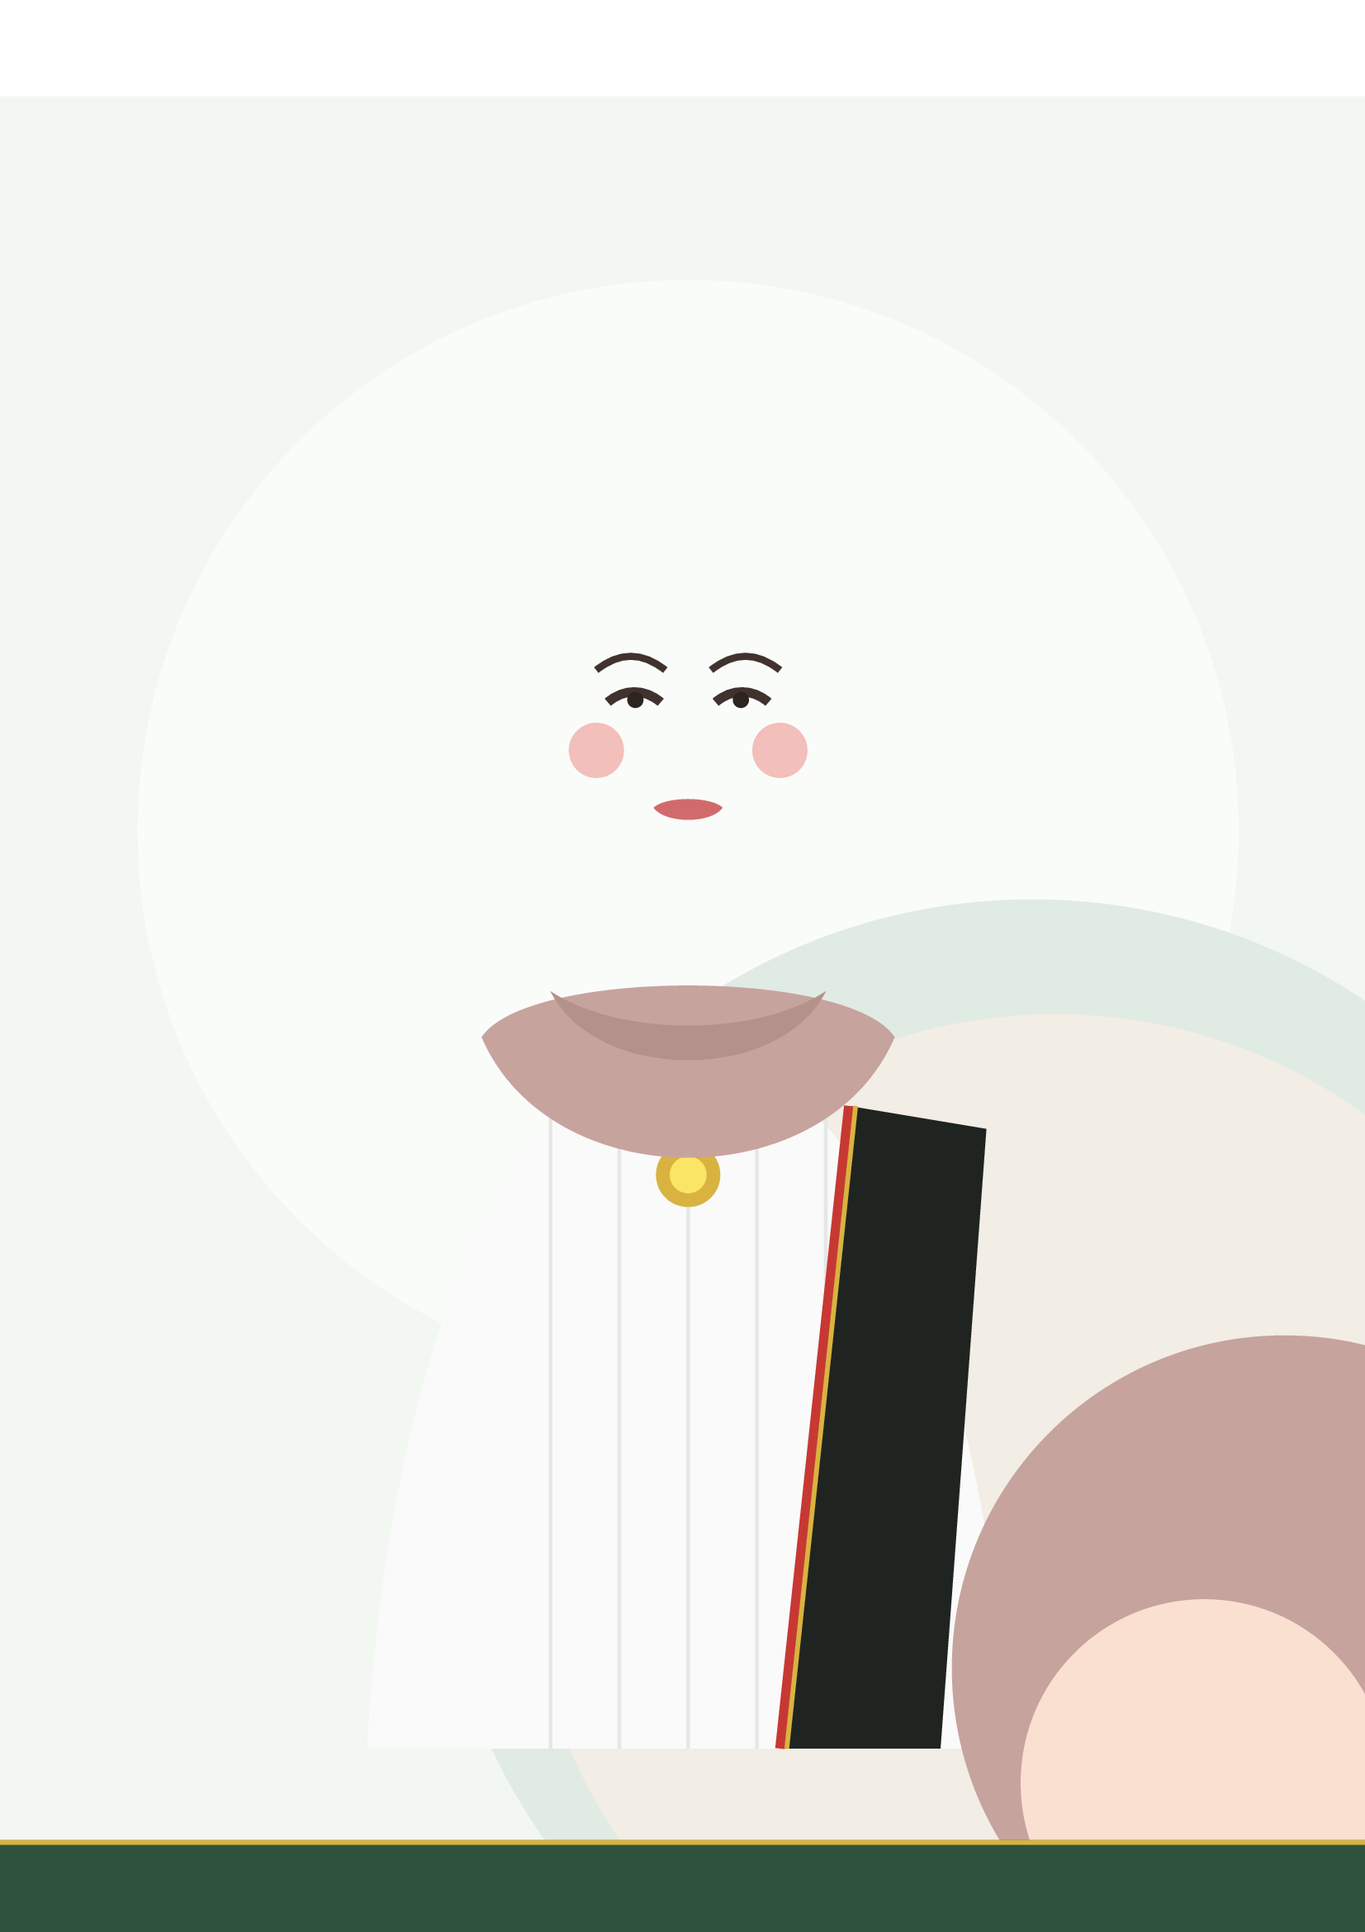
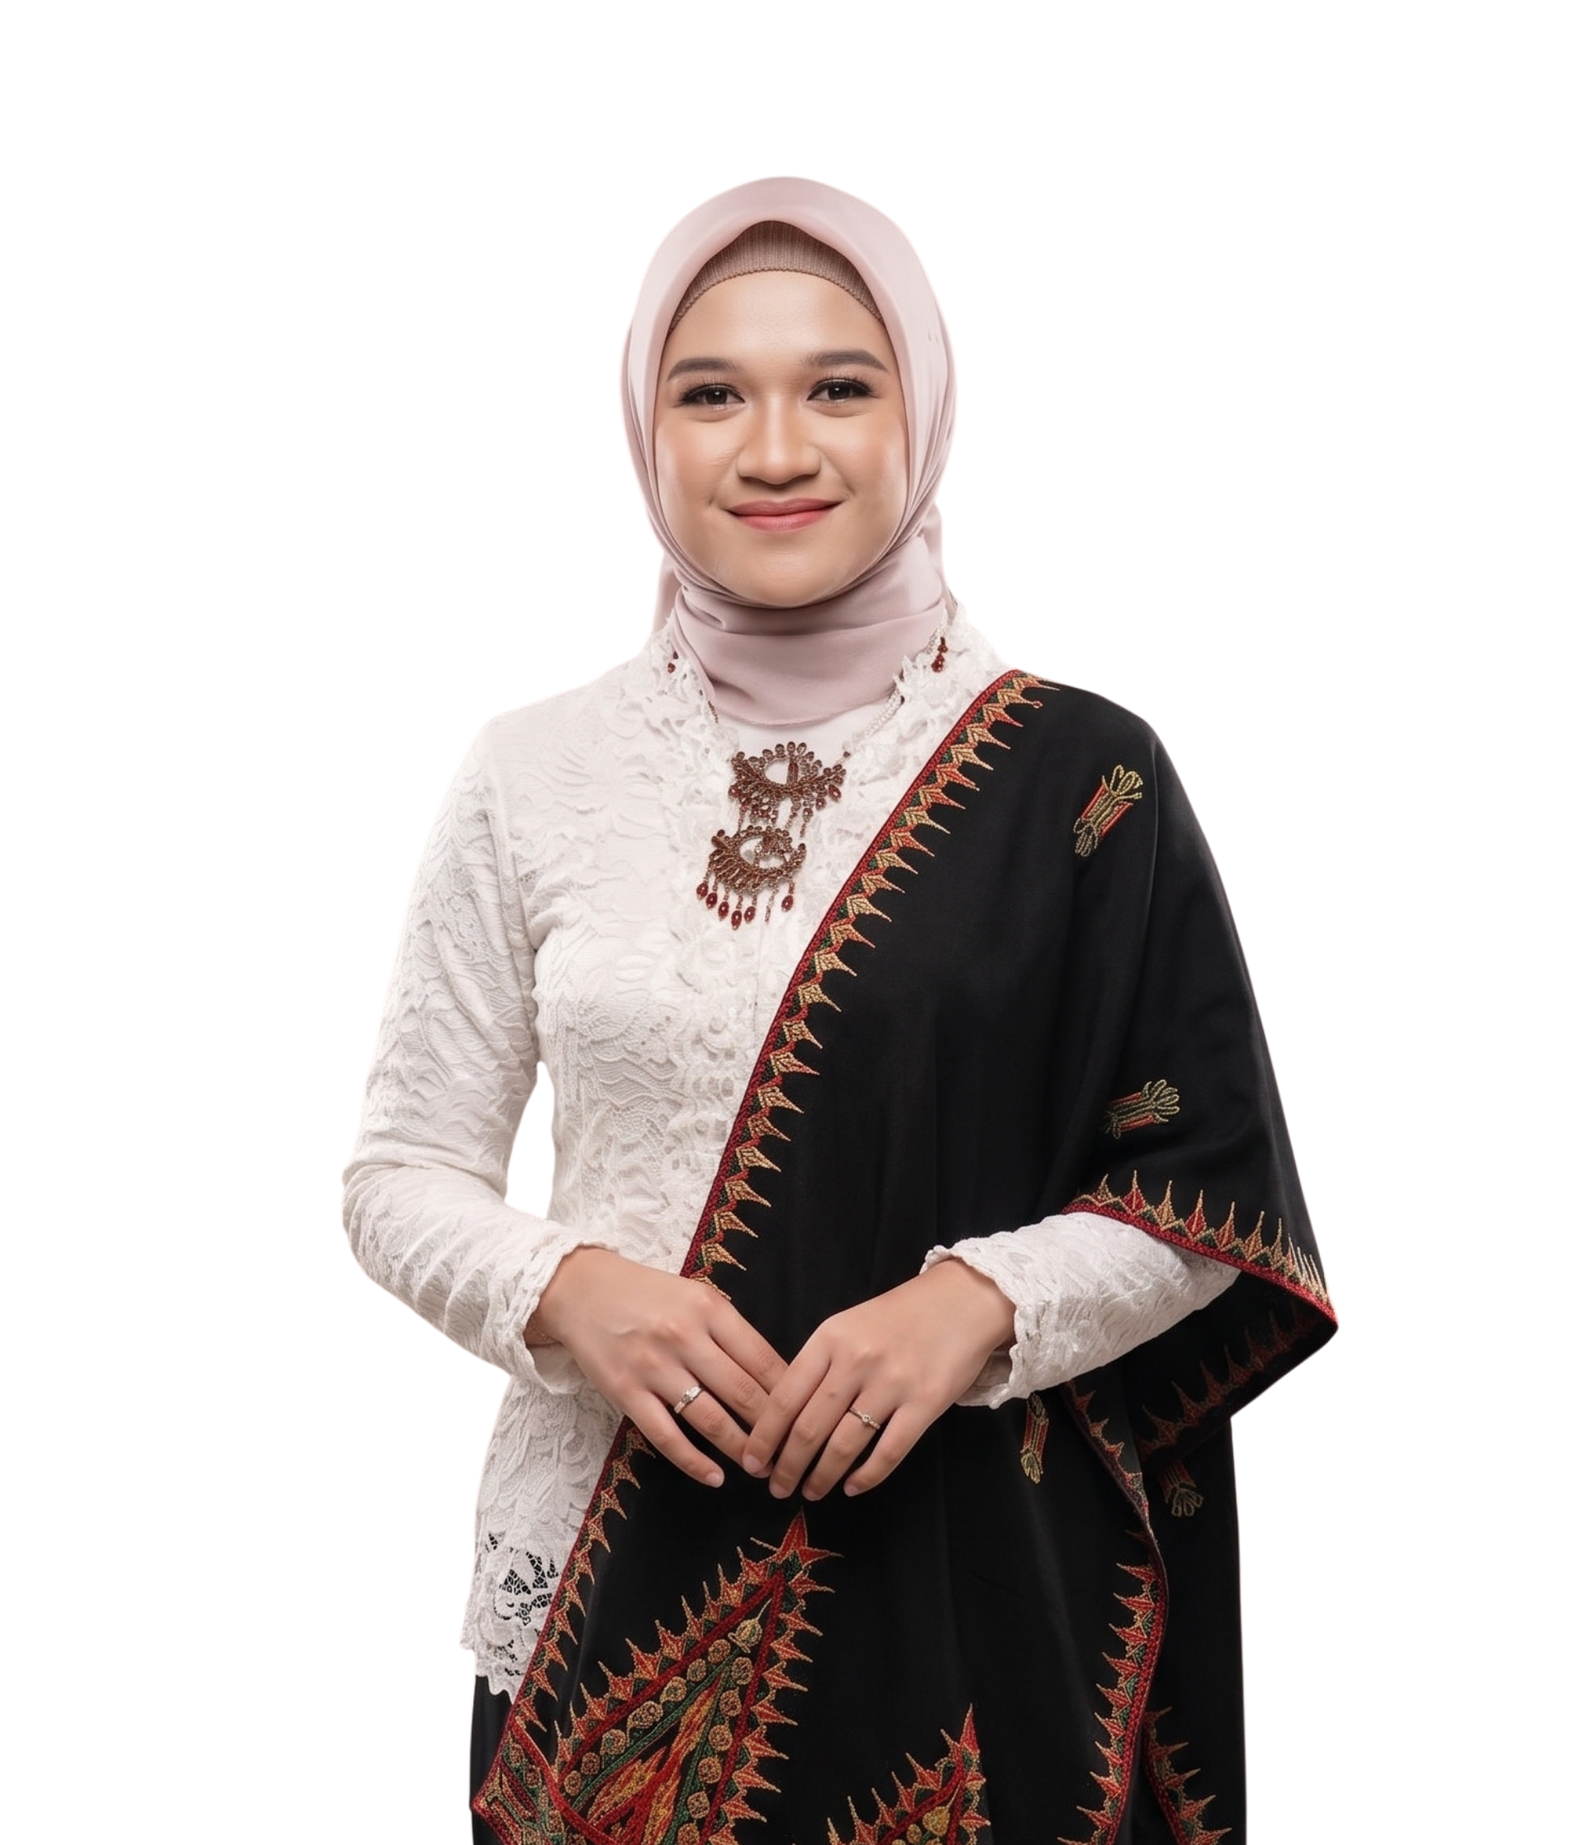
update v2

diff --git a/src/components/admin/AdminPhotoManager.tsx b/src/components/admin/AdminPhotoManager.tsx
@@ -3,7 +3,7 @@ import { useData } from '../../context/DataContext';
 import { PhotoItem } from '../../types';
 
 export const AdminPhotoManager: React.FC<{ showToast: (msg: string) => void }> = ({ showToast }) => {
-  const { photos, addPhoto, deletePhoto, refreshPhotos } = useData();
+  const { photos, addPhoto, deletePhoto, refreshPhotos, notaryProfile, updateNotaryProfile } = useData();
 
   // Server health state
   const [serverHealth, setServerHealth] = useState<{
@@ -20,6 +20,7 @@ export const AdminPhotoManager: React.FC<{ showToast: (msg: string) => void }> =
   const [description, setDescription] = useState('');
   const [isUploading, setIsUploading] = useState(false);
   const [uploadProgress, setUploadProgress] = useState('');
+  const [setAsNotaryProfile, setSetAsNotaryProfile] = useState(false);
 
   // Manual URL Form State
   const [manualUrl, setManualUrl] = useState('');
@@ -128,7 +129,12 @@ export const AdminPhotoManager: React.FC<{ showToast: (msg: string) => void }> =
           const result = await response.json();
           if (result.photo) {
             addPhoto(result.photo);
-            showToast('Foto berhasil diunggah ke Vercel Blob & tersimpan di database!');
+            if (setAsNotaryProfile || category === 'Profil Notaris') {
+              updateNotaryProfile({ photoUrl: result.photo.url });
+              showToast('Foto berhasil diunggah dan langsung aktif sebagai Foto Profil Notaris!');
+            } else {
+              showToast('Foto berhasil diunggah ke Vercel Blob & tersimpan di database!');
+            }
             resetForm();
             return;
           }
@@ -149,7 +155,12 @@ export const AdminPhotoManager: React.FC<{ showToast: (msg: string) => void }> =
             created_at: new Date().toISOString(),
           };
           addPhoto(newPhoto);
-          showToast('Foto berhasil disimpan ke galeri!');
+          if (setAsNotaryProfile || category === 'Profil Notaris') {
+            updateNotaryProfile({ photoUrl: base64Url });
+            showToast('Foto disimpan & langsung aktif sebagai Foto Profil Notaris!');
+          } else {
+            showToast('Foto berhasil disimpan ke galeri!');
+          }
           resetForm();
         };
         reader.readAsDataURL(selectedFile);
@@ -171,7 +182,12 @@ export const AdminPhotoManager: React.FC<{ showToast: (msg: string) => void }> =
           const result = await response.json();
           if (result.photo) {
             addPhoto(result.photo);
-            showToast('Foto berhasil ditambahkan ke database!');
+            if (setAsNotaryProfile || category === 'Profil Notaris') {
+              updateNotaryProfile({ photoUrl: result.photo.url });
+              showToast('Foto URL berhasil disimpan dan aktif sebagai Foto Profil Notaris!');
+            } else {
+              showToast('Foto berhasil ditambahkan ke database!');
+            }
             resetForm();
             return;
           }
@@ -443,9 +459,16 @@ export const AdminPhotoManager: React.FC<{ showToast: (msg: string) => void }> =
                   </label>
                   <select
                     value={category}
-                    onChange={(e) => setCategory(e.target.value)}
-                    className="w-full px-3.5 py-2.5 bg-slate-50 border border-slate-300 rounded-xl text-sm focus:outline-none focus:ring-2 focus:ring-emerald-500"
+                    onChange={(e) => {
+                      const newCat = e.target.value;
+                      setCategory(newCat);
+                      if (newCat === 'Profil Notaris') {
+                        setSetAsNotaryProfile(true);
+                      }
+                    }}
+                    className="w-full px-3.5 py-2.5 bg-slate-50 border border-slate-300 rounded-xl text-sm focus:outline-none focus:ring-2 focus:ring-emerald-500 font-medium"
                   >
+                    <option value="Profil Notaris">Profil Notaris (Foto Utama Notaris)</option>
                     <option value="Dokumentasi Kantor">Dokumentasi Kantor</option>
                     <option value="Kegiatan Notaris">Kegiatan Notaris</option>
                     <option value="Klien & Kerjasama">Klien & Kerjasama</option>
@@ -481,6 +504,26 @@ export const AdminPhotoManager: React.FC<{ showToast: (msg: string) => void }> =
                     className="w-full px-3.5 py-2.5 bg-slate-50 border border-slate-300 rounded-xl text-sm focus:outline-none focus:ring-2 focus:ring-emerald-500"
                   />
                 </div>
+              </div>
+
+              {/* Set as Notary Profile checkbox toggle */}
+              <div className="p-3.5 bg-emerald-50 rounded-2xl border border-emerald-200 flex items-center justify-between">
+                <div className="flex items-center gap-2.5">
+                  <input
+                    type="checkbox"
+                    id="setAsNotaryCheckbox"
+                    checked={setAsNotaryProfile || category === 'Profil Notaris'}
+                    onChange={(e) => setSetAsNotaryProfile(e.target.checked)}
+                    className="w-4 h-4 text-emerald-600 rounded-md focus:ring-emerald-500 cursor-pointer"
+                  />
+                  <label htmlFor="setAsNotaryCheckbox" className="text-xs font-bold text-emerald-950 cursor-pointer flex items-center gap-1.5">
+                    <i className="fa-solid fa-user-check text-emerald-600"></i>
+                    <span>Terapkan langsung sebagai Foto Profil Utama Notaris di Seluruh Website</span>
+                  </label>
+                </div>
+                <span className="text-[10px] text-emerald-700 font-semibold hidden sm:inline-block">
+                  (Hero, Profil, Navbar & Portret)
+                </span>
               </div>
 
               <div className="pt-2 flex flex-wrap items-center gap-3">
@@ -580,6 +623,13 @@ export const AdminPhotoManager: React.FC<{ showToast: (msg: string) => void }> =
                       className="w-full h-full object-cover group-hover:scale-105 transition-transform duration-300"
                       referrerPolicy="no-referrer"
                     />
+                    {notaryProfile.photoUrl === photo.url && (
+                      <div className="absolute top-2 left-2 z-10">
+                        <span className="px-2.5 py-0.5 rounded-full text-[10px] font-bold bg-amber-400 text-slate-950 shadow-sm flex items-center gap-1 border border-amber-300">
+                          <i className="fa-solid fa-star text-[9px] text-amber-900"></i> Profil Notaris Aktif
+                        </span>
+                      </div>
+                    )}
                     <div className="absolute top-2 right-2">
                       <span className="px-2.5 py-1 rounded-full text-[10px] font-bold bg-white/90 backdrop-blur-xs text-emerald-800 shadow-xs">
                         {photo.category}
@@ -604,6 +654,23 @@ export const AdminPhotoManager: React.FC<{ showToast: (msg: string) => void }> =
                 </div>
 
                 <div className="p-3 bg-white border-t border-slate-200/80 flex items-center justify-between gap-2">
+                  <button
+                    type="button"
+                    onClick={() => {
+                      updateNotaryProfile({ photoUrl: photo.url });
+                      showToast(`Foto "${photo.title}" sekarang aktif sebagai Foto Profil Notaris!`);
+                    }}
+                    className={`px-2.5 py-1.5 rounded-lg text-xs font-bold transition-all flex items-center gap-1 cursor-pointer ${
+                      notaryProfile.photoUrl === photo.url
+                        ? 'bg-amber-100 text-amber-900 border border-amber-300'
+                        : 'bg-slate-100 hover:bg-emerald-50 text-slate-700 hover:text-emerald-700'
+                    }`}
+                    title="Jadikan Foto Profil Utama Notaris"
+                  >
+                    <i className={`fa-solid ${notaryProfile.photoUrl === photo.url ? 'fa-circle-check text-emerald-600' : 'fa-user-tie'} text-[11px]`}></i>
+                    <span>{notaryProfile.photoUrl === photo.url ? 'Profil Aktif' : 'Set Profil'}</span>
+                  </button>
+
                   <button
                     type="button"
                     onClick={() => copyPhotoUrl(photo)}

diff --git a/src/components/NotaryPortrait.tsx b/src/components/NotaryPortrait.tsx
@@ -1,4 +1,4 @@
-import React, { useState } from 'react';
+import React, { useState, useEffect } from 'react';
 import { useData } from '../context/DataContext';
 
 interface NotaryPortraitProps {
@@ -18,17 +18,24 @@ export const NotaryPortrait: React.FC<NotaryPortraitProps> = ({
 }) => {
   const { notaryProfile } = useData();
 
-  // Fallback candidate list
+  // Prefer uploaded photoUrl from profile, with fallback chain
+  const photoTarget = notaryProfile.photoUrl || '/SYARIFAH_NURUL.png';
+
   const candidates = [
-    notaryProfile.photoUrl,
-    '/SYARIFAH NURUL.png',
+    photoTarget,
     '/SYARIFAH_NURUL.png',
+    '/SYARIFAH NURUL.png',
     '/syarifah_portrait.svg',
-    '/syarifah-nurul.png',
   ].filter(Boolean) as string[];
 
   const [currentIndex, setCurrentIndex] = useState<number>(0);
   const [hasError, setHasError] = useState(false);
+
+  // Whenever notaryProfile.photoUrl changes, immediately reset candidate index to 0
+  useEffect(() => {
+    setCurrentIndex(0);
+    setHasError(false);
+  }, [notaryProfile.photoUrl]);
 
   // Handle image load error by cycling through candidates
   const handleError = () => {
@@ -47,7 +54,7 @@ export const NotaryPortrait: React.FC<NotaryPortraitProps> = ({
     hero: 'w-64 h-80 sm:w-72 sm:h-96 md:w-80 md:h-[430px] rounded-3xl',
   };
 
-  const currentSrc = candidates[currentIndex] || '/syarifah_portrait.svg';
+  const currentSrc = candidates[currentIndex] || '/SYARIFAH_NURUL.png';
 
   return (
     <div className={`relative inline-block ${className} group`}>
@@ -57,9 +64,11 @@ export const NotaryPortrait: React.FC<NotaryPortraitProps> = ({
       >
         {!hasError ? (
           <img
+            key={currentSrc}
             src={currentSrc}
             alt={altText}
             onError={handleError}
+            referrerPolicy="no-referrer"
             className={`w-full h-full object-cover object-top transition-transform duration-500 hover:scale-105 ${imageClassName}`}
             loading="eager"
           />
@@ -84,4 +93,5 @@ export const NotaryPortrait: React.FC<NotaryPortraitProps> = ({
     </div>
   );
 };
+
 

diff --git a/src/context/DataContext.tsx b/src/context/DataContext.tsx
@@ -240,6 +240,10 @@ export const DataProvider: React.FC<{ children: ReactNode }> = ({ children }) =>
         if (parsed.degrees?.includes('C.L.A.')) {
           parsed.degrees = "S.H. (Universitas Sultan Ageng Tirtayasa) | M.Kn. (Universitas Indonesia)";
         }
+        // If stored photoUrl is empty or an old local placeholder and INITIAL_PROFILE has a cloud URL, prefer INITIAL_PROFILE
+        if (INITIAL_PROFILE.photoUrl && (!parsed.photoUrl || parsed.photoUrl === '/SYARIFAH NURUL.png' || parsed.photoUrl === '/SYARIFAH_NURUL.png')) {
+          parsed.photoUrl = INITIAL_PROFILE.photoUrl;
+        }
         return { ...INITIAL_PROFILE, ...parsed };
       } catch (e) { console.error(e); }
     }
@@ -356,10 +360,22 @@ export const DataProvider: React.FC<{ children: ReactNode }> = ({ children }) =>
       .then((data) => {
         if (data) {
           if (data.notaryProfile) {
-            setNotaryProfile((prev) => ({ ...prev, ...data.notaryProfile }));
+            setNotaryProfile((prev) => {
+              const updated = { ...prev, ...data.notaryProfile };
+              try {
+                localStorage.setItem(STORAGE_KEYS.PROFILE, JSON.stringify(updated));
+              } catch (e) {}
+              return updated;
+            });
           }
           if (data.websiteSettings) {
-            setWebsiteSettings((prev) => ({ ...prev, ...data.websiteSettings }));
+            setWebsiteSettings((prev) => {
+              const updated = { ...prev, ...data.websiteSettings };
+              try {
+                localStorage.setItem(STORAGE_KEYS.SETTINGS, JSON.stringify(updated));
+              } catch (e) {}
+              return updated;
+            });
           }
         }
       })

diff --git a/src/components/Footer.tsx b/src/components/Footer.tsx
@@ -150,24 +150,20 @@ export const Footer: React.FC<FooterProps> = ({ lang, onNavigate }) => {
         {/* Bottom Bar */}
         <div className="border-t border-[#a7f3d0] pt-8 flex flex-col sm:flex-row items-center justify-between text-[11px] text-[#047857] gap-3">
           <p 
+            onClick={(e) => {
+              // Secret trigger: 3 rapid clicks on the copyright notice opens Admin
+              if (e.detail === 3) {
+                setCurrentView('admin');
+              }
+            }}
             onDoubleClick={() => setCurrentView('admin')}
-            title={lang === 'id' ? 'Hak Cipta Kantor Notaris Kota Serang' : 'Copyright'}
             className="cursor-default select-none text-center sm:text-left"
           >
             &copy; {new Date().getFullYear()} Kantor Notaris & Pejabat Pembuat Akta {notaryProfile.name}.
           </p>
           
-          <div className="flex items-center space-x-4 text-xs text-[#047857]">
+          <div className="flex items-center space-x-2 text-xs text-[#047857]">
             <span>Wilayah Jabatan Kota Serang, Banten</span>
-            <span className="text-[#a7f3d0]">•</span>
-            <button
-              onClick={() => setCurrentView('admin')}
-              className="text-[#059669] hover:text-[#047857] font-semibold flex items-center gap-1.5 transition-colors cursor-pointer bg-[#ecfdf5] px-2.5 py-1 rounded-lg border border-[#a7f3d0]"
-              title="Masuk ke Panel Admin"
-            >
-              <i className="fa-solid fa-lock text-[10px]"></i>
-              <span>Panel Admin / Kelola</span>
-            </button>
           </div>
         </div>
 

diff --git a/src/components/admin/AdminDashboard.tsx b/src/components/admin/AdminDashboard.tsx
@@ -901,12 +901,14 @@ export const AdminDashboard: React.FC<{ lang: Language }> = ({ lang }) => {
                     <div className="relative group">
                       <div className="w-28 h-28 sm:w-32 sm:h-32 rounded-2xl overflow-hidden border-4 border-white shadow-md bg-emerald-50 flex items-center justify-center ring-2 ring-emerald-400">
                         <img
-                          src={profileForm.photoUrl || notaryProfile.photoUrl || '/SYARIFAH NURUL.png'}
+                          key={profileForm.photoUrl || notaryProfile.photoUrl}
+                          src={profileForm.photoUrl || notaryProfile.photoUrl || '/SYARIFAH_NURUL.png'}
                           alt={profileForm.name}
+                          referrerPolicy="no-referrer"
                           className="w-full h-full object-cover object-top"
                           onError={(e) => {
                             const target = e.currentTarget as HTMLImageElement;
-                            target.src = '/syarifah_portrait.svg';
+                            target.src = '/SYARIFAH_NURUL.png';
                           }}
                         />
                       </div>

diff --git a/src/components/Navbar.tsx b/src/components/Navbar.tsx
@@ -81,14 +81,14 @@ export const Navbar: React.FC<NavbarProps> = ({
             <div className="relative">
               <div className="w-10 h-10 sm:w-12 sm:h-12 rounded-2xl overflow-hidden bg-[#ecfdf5] border-2 border-[#86efac] flex items-center justify-center shadow-xs shrink-0 group-hover:scale-105 transition-transform">
                 <img 
-                  src={notaryProfile.photoUrl || '/SYARIFAH NURUL.png'} 
+                  key={notaryProfile.photoUrl || '/SYARIFAH_NURUL.png'}
+                  src={notaryProfile.photoUrl || '/SYARIFAH_NURUL.png'} 
                   alt="Syarifah Nurul Aziizi" 
+                  referrerPolicy="no-referrer"
                   className="w-full h-full object-cover object-top"
                   onError={(e) => {
                     const target = e.currentTarget as HTMLImageElement;
-                    if (target.src.includes('SYARIFAH%20NURUL') || target.src.includes('SYARIFAH_NURUL')) {
-                      target.src = '/syarifah_portrait.svg';
-                    }
+                    target.src = '/SYARIFAH_NURUL.png';
                   }}
                 />
               </div>

diff --git a/src/App.tsx b/src/App.tsx
@@ -36,11 +36,12 @@ function AppContent() {
     };
 
     const checkHashOrQuery = () => {
-      if (window.location.hash === '#admin' || window.location.hash === '#kelola') {
+      const hash = window.location.hash.toLowerCase();
+      if (hash === '#admin' || hash === '#kelola' || hash.startsWith('#admin')) {
         setCurrentView('admin');
       }
       const urlParams = new URLSearchParams(window.location.search);
-      if (urlParams.get('admin') === 'true' || urlParams.get('admin') === '1') {
+      if (urlParams.has('admin') || urlParams.get('admin') === 'true' || urlParams.get('admin') === '1') {
         setCurrentView('admin');
       }
     };

diff --git a/src/data/notaryData.ts b/src/data/notaryData.ts
@@ -38,7 +38,7 @@ export const NOTARY_PROFILE: NotaryProfile = {
     saturday: "Sabtu: 09.00 – 14.00 WIB (Dengan Janji Temu)",
     sunday: "Minggu & Hari Libur Nasional: Tutup (Konsultasi Darurat via WhatsApp)"
   },
-  photoUrl: "/SYARIFAH_NURUL.png"
+  photoUrl: "https://cry78bnvmcxqxar2.public.blob.vercel-storage.com/notaris-galeri/1788592818641-SYARIFAH_NURUL.png"
 };
 
 export const CLIENT_PORTFOLIO: ClientPortfolio[] = [
